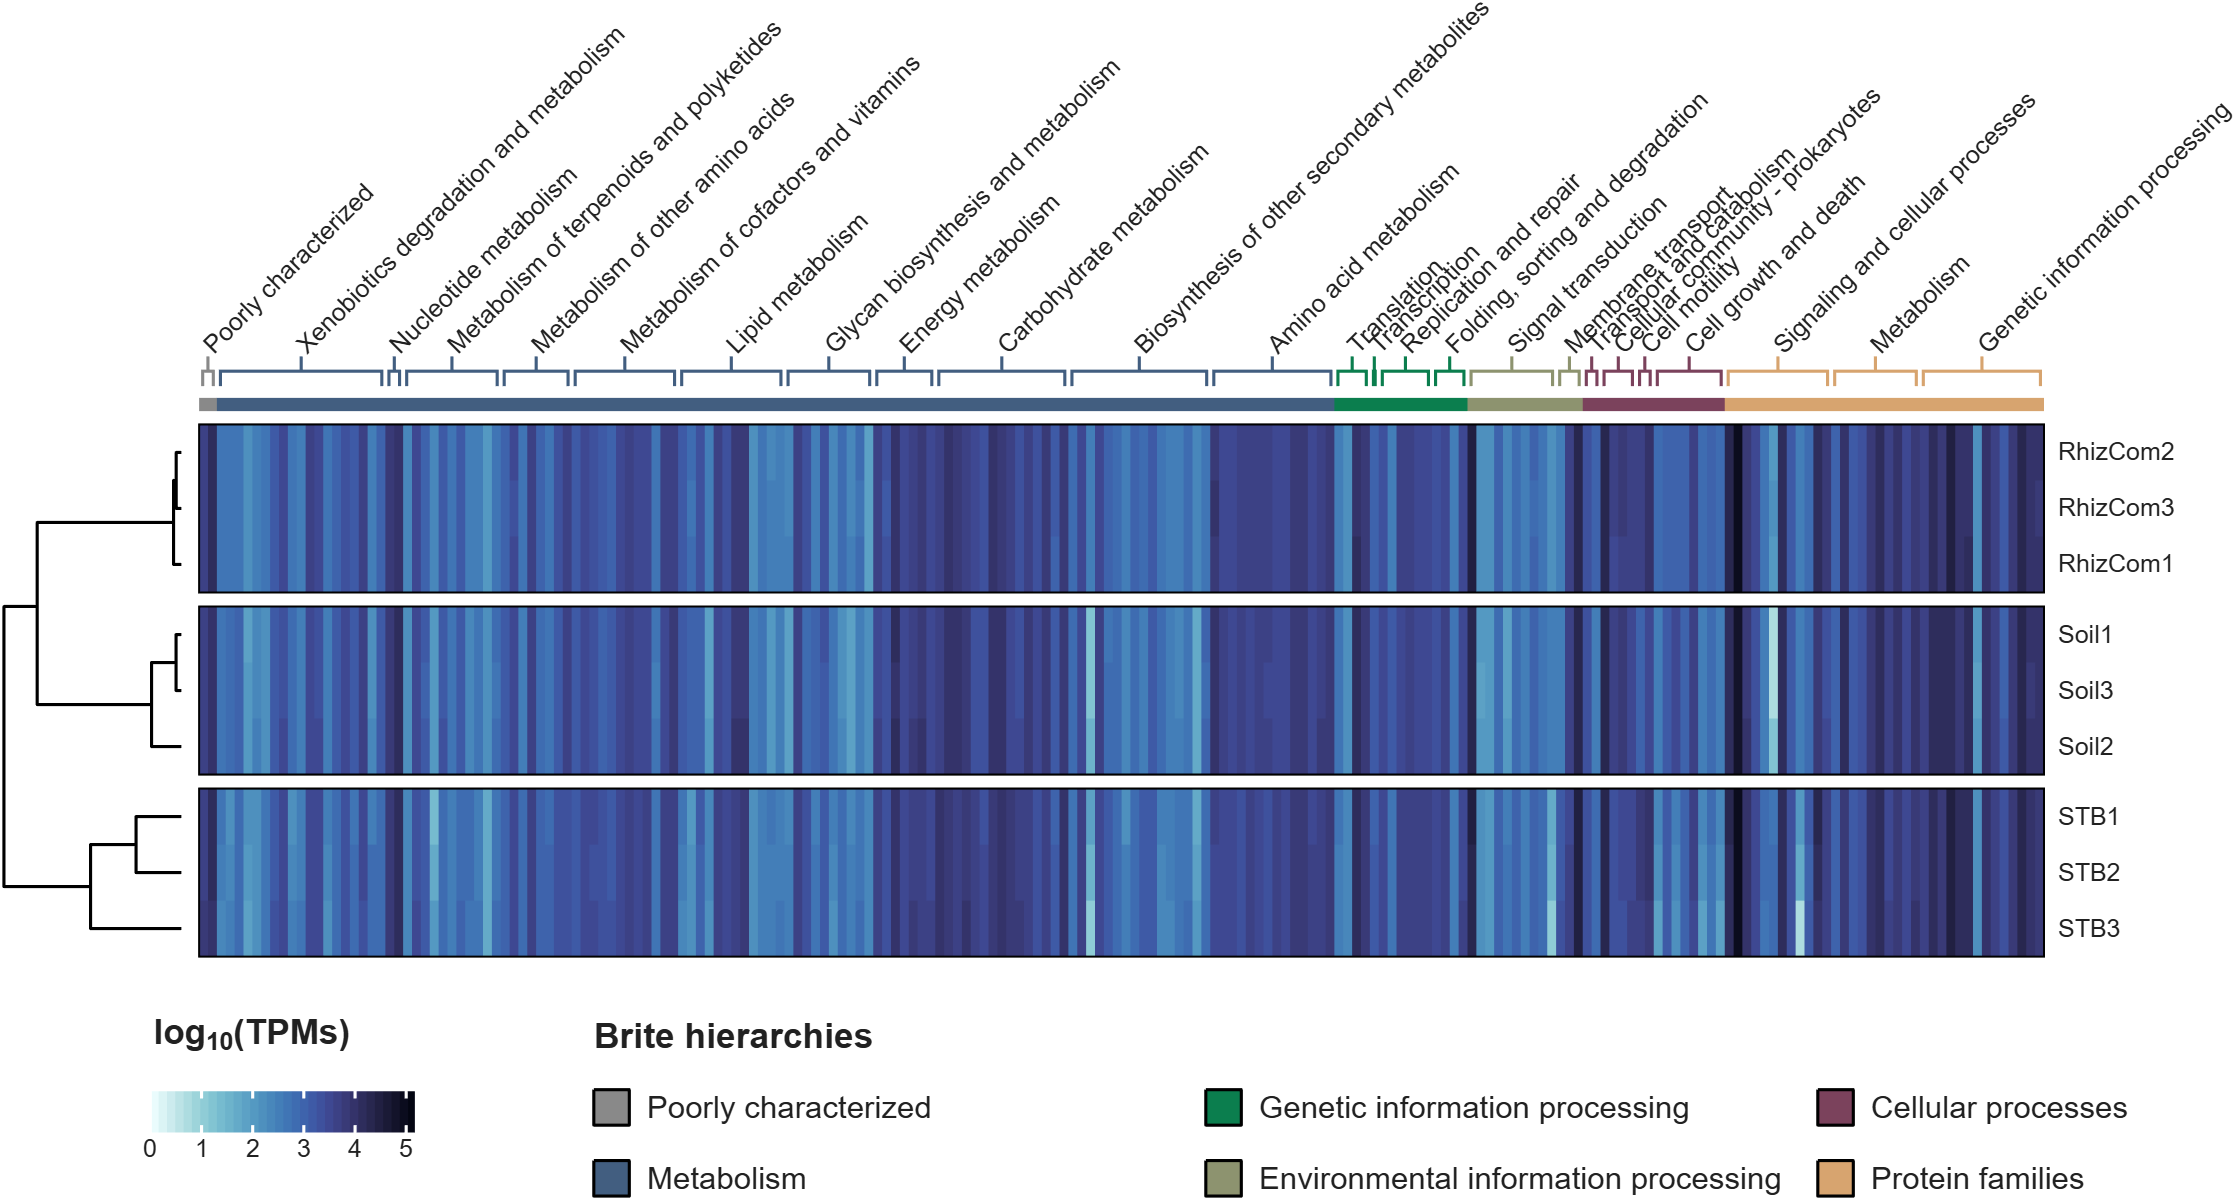
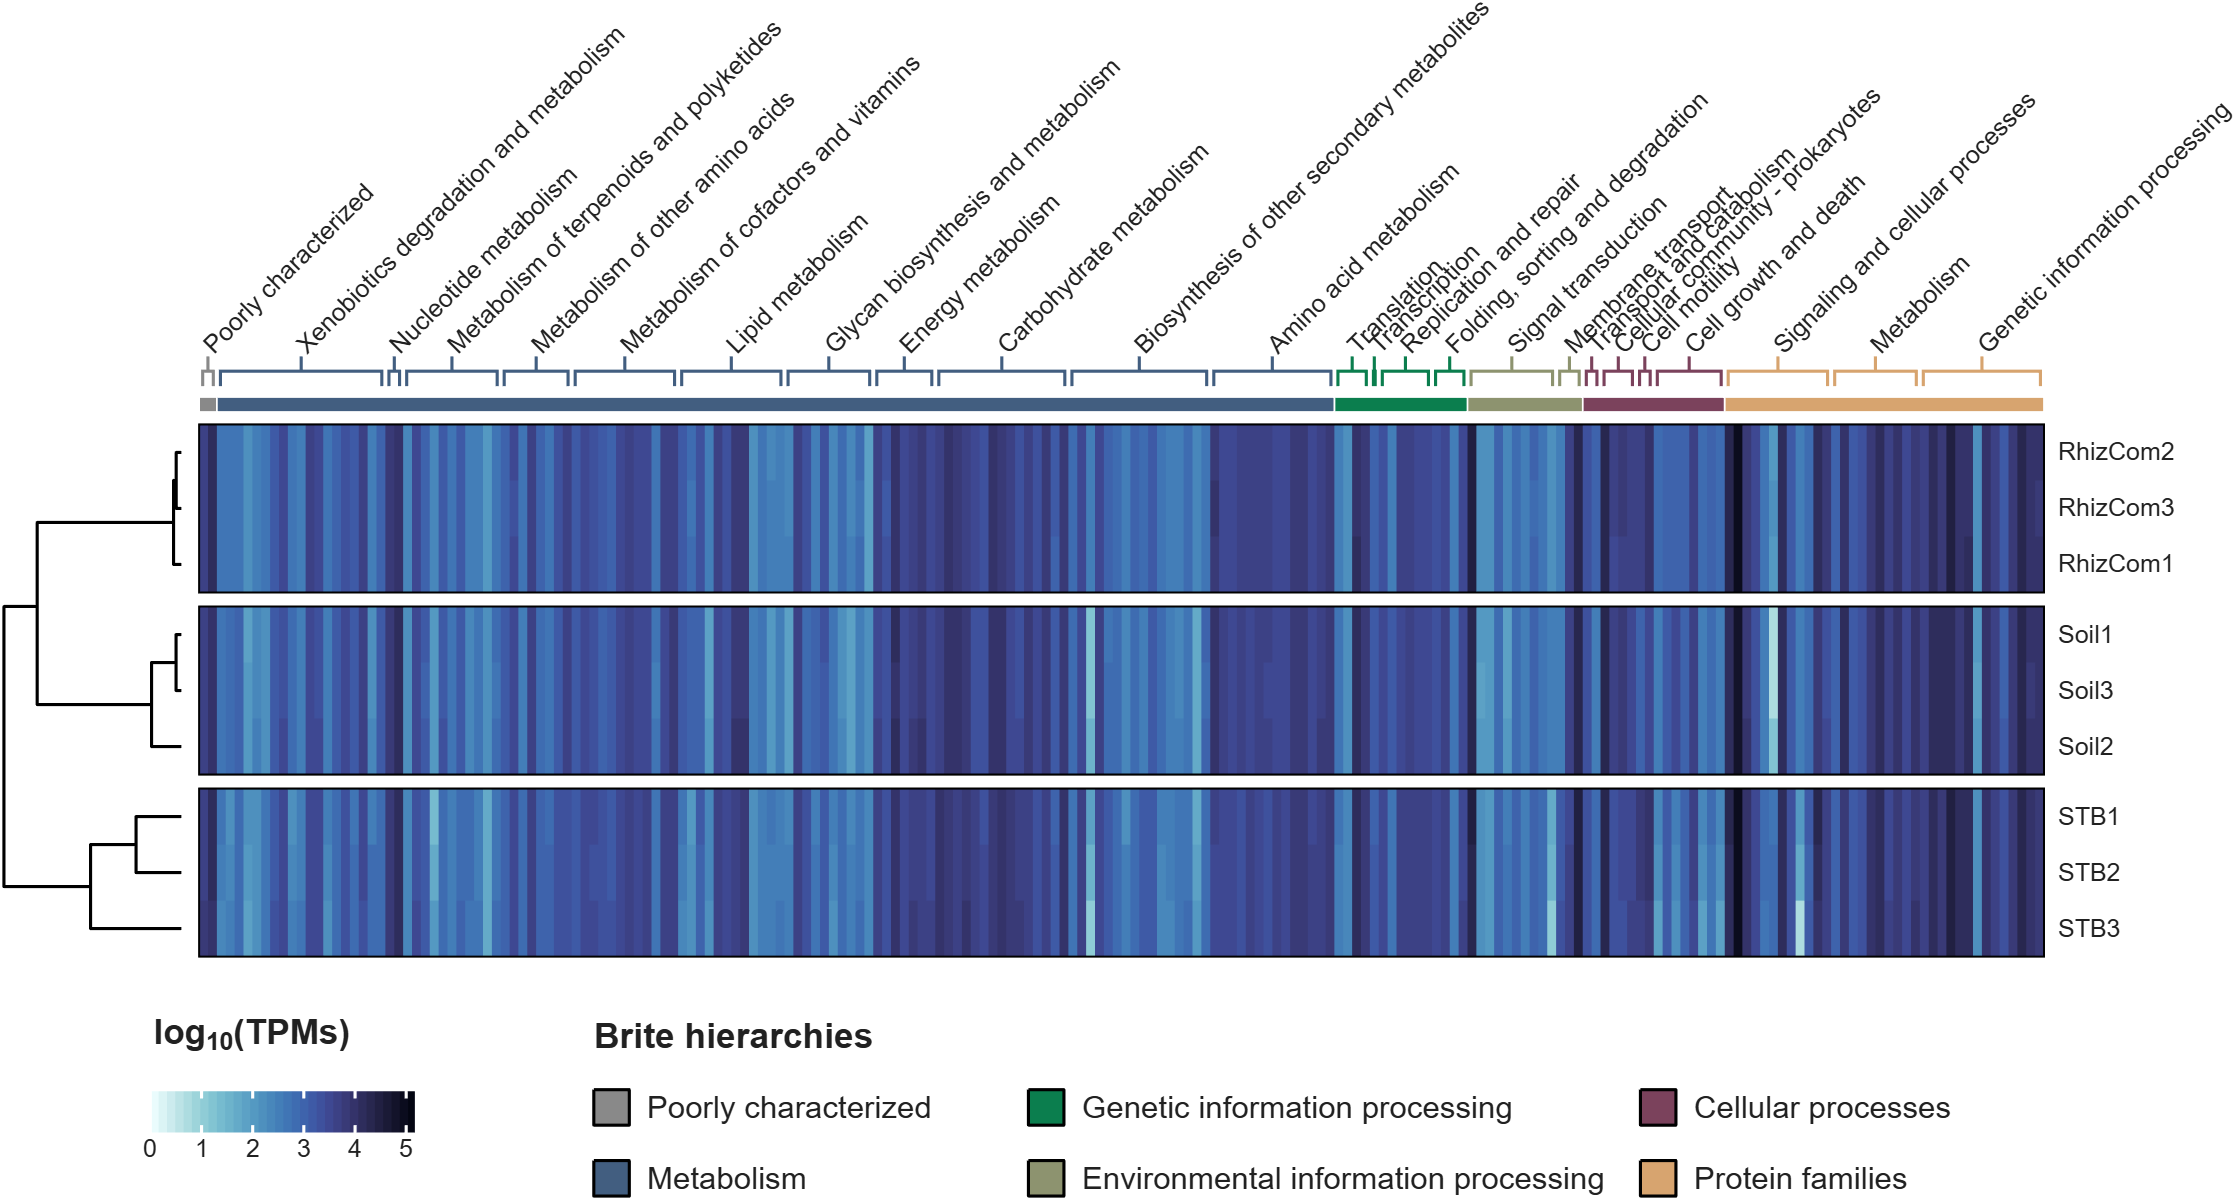
add & push by Matlab

Changed region(s): [[0.4322, 0.8942, 0.9262, 1.0]]

diff --git a/demos_SColorbar/demo_slgd3_7_Complex.m b/demos_SColorbar/demo_slgd3_7_Complex.m
@@ -1,0 +1,102 @@
+%% Complex heatmap 7
+% Inspired by : Fig. 3A
+%     Liang WW, Müller S, Hart SK, et al. 
+%     RETRACTED: Transcriptome-scale RNA-targeting CRISPR screens reveal essential lncRNAs in human cells 
+%     [retracted in: Cell. 2025 Dec 24;188(26):7629. doi: 10.1016/j.cell.2025.11.032.]. 
+%     Cell. 2024;187(26):7637-7654.e29. doi:10.1016/j.cell.2024.10.021
+%
+% Knockdown of shared essential lncRNAs reduces cell survival.
+
+addpath('..\')
+T = load('..\data_example\lncRNA.mat');
+
+fig = figure('Units','normalized', 'Position',[.05,.02,.5,.9]);
+ax = axes('Parent',fig, 'Position',[.05,.05,.9,.9]);
+
+% Draw left heatmap (绘制左侧热图)
+SHM_L = SHeatmap(T.DataL, 'ColGroup',T.colGroup, 'GroupSep',.25, 'TickLength',0);
+SHM_L.draw()
+SHM_L.setColName(T.colNameL)
+SHM_L.setColLabel('Rotation',90, 'FontSize',14)
+SHM_L.setXYTLim('XLim', [0, 12.5])
+SHM_L.setRowTickIndices([])
+SHM_L.setFontName('Arial')
+
+% Add colorbar (添加颜色条)
+colormap(slanCM(19, 32)); clim([0, 1])
+scbarL = SColorbar(ax, 'Location','south', 'TickDir','bothin', ...
+    'Tick',0:.5:1, 'TickLength',.1);
+scbarL.draw()
+scbarL.setXYTLim('XLim', [33, 48], 'YLim',[30, 31])
+scbarL.setTickLabel('FontName','Arial', 'FontSize',12, 'Rotation',0, ...
+    'HorizontalAlignment','center', 'VerticalAlignment','top')
+
+SHM_L.freezeColors()
+scbarL.freezeColors()
+
+% Draw left heatmap (绘制右侧热图)
+SHM_R = SHeatmap(T.DataR, 'ColGroup',T.colGroup, 'GroupSep',.25, 'TickLength',0);
+SHM_R.draw()
+SHM_R.setColName(T.colNameR)
+SHM_R.setRowName(T.rowName)
+SHM_R.setColLabel('Rotation',90, 'FontSize',14)
+SHM_R.setRowLabel('FontSize',14)
+SHM_R.setRowLabelLocation('right')
+SHM_R.setXYTLim('XLim', [18, 30.5])
+SHM_R.setFontName('Arial')
+SHM_R.setRowTickIndices([1:5, 16, 23])
+spreadLabels(SHM_R.rowLabelHdl, [36,1; 36,25], 'LeaderStyle','segment2', 'UniformWeight',.6)
+
+% Add colorbar (添加颜色条)
+tcmap = flipud(slanCM(4, 128));
+colormap(tcmap((1:64) + 15, :)); clim([0, 1])
+scbarR = SColorbar(ax, 'Location','south', 'TickDir','bothin', ...
+    'Tick',0:.5:1, 'TickLength',.1);
+scbarR.draw()
+scbarR.setXYTLim('XLim', [33, 48], 'YLim',[45, 46])
+scbarR.setTickLabel('FontName','Arial', 'FontSize',12, 'Rotation',0, ...
+    'HorizontalAlignment','center', 'VerticalAlignment','top')
+
+SHM_R.freezeColors()
+scbarR.freezeColors()
+
+% Draw group blocks 1
+[ind, ~, ~] = unique(T.rowGroup1, 'stable');
+CList1 = [206,62,82; 232,107,70; 236,169,90; 245,213,136; 220,234,146; 96,185,157; 41,129,186]./255;
+SCB1 = SClusterBlock(T.rowGroup1, 'Orientation','left', 'Parent',ax, ...
+    'Height',2, 'BasePos',-.5, 'BlockProp',{'LineWidth',.5, 'EdgeColor','none'}, 'ColorList',CList1(ind, :));
+SCB1.draw(); % SCB1.setBox('Color','w', 'LineWidth',.5)
+
+% Draw group blocks 2
+[ind, ~, ~] = unique(T.rowGroup2, 'stable');
+CList2 = [255,255,255; 3,103,45; 217,217,217]./255;
+SCB2 = SClusterBlock(T.rowGroup2, 'Orientation','right', 'Parent',ax, ...
+    'Height',2, 'BasePos',13, 'BlockProp',{'LineWidth',.5, 'EdgeColor','none'}, 'ColorList',CList2(ind, :));
+SCB2.draw(); % SCB2.setBox('Color','w', 'LineWidth',.5)
+
+
+% Add legend2 (添加图例2)
+[~, ~, ticks2] = intersect(1:max(T.rowGroup2), SCB2.ClassName, 'stable');
+slgd2 = SLegend(SCB2, 'BasePos',[33, 37], 'TitleString','Essentiality (CRISPRI)', ...
+    'IconSize',[1, 1], 'RowSep',1, 'LabelOffset',.25, 'Tick',ticks2(2:3), 'Label', T.rowGroupName2(2:3));
+slgd2.draw()
+slgd2.setLabel('FontName','Arial')
+slgd2.setTitle('FontName','Arial')
+
+% Add legend1 (添加图例1)
+[~, ~, ticks1] = intersect(1:max(T.rowGroup1), SCB1.ClassName, 'stable');
+slgd1 = SLegend(SCB1, 'BasePos',[33, 52], 'TitleString','Genomic class', ...
+    'IconSize',[1, 1], 'RowSep',1, 'LabelOffset',.25, 'Tick',ticks1, 'Label', T.rowGroupName1);
+slgd1.draw()
+slgd1.setLabel('FontName','Arial')
+slgd1.setTitle('FontName','Arial')
+
+
+
+% Create annotations 
+text(ax, 33, 28.5, 'Essentiality rank (Cas13)', 'FontName','Arial', 'FontSize',17)
+text(ax, 33, 43.5, 'Expression (log_2 TPM+1)', 'FontName','Arial', 'FontSize',17)
+plot(ax, [0, 15], [0,0], 'Color','k', 'LineWidth',2)
+plot(ax, [18, 30.5], [0,0], 'Color','k', 'LineWidth',2)
+text(ax, 7.5, -1.5, 'Essentiality', 'FontName','Arial', 'FontSize',17, 'HorizontalAlignment','center')
+text(ax, 24.25, -1.5, 'Expression', 'FontName','Arial', 'FontSize',17, 'HorizontalAlignment','center')

diff --git a/demos_SColorbar/demo_slgd3_6_Complex.m b/demos_SColorbar/demo_slgd3_6_Complex.m
@@ -22,14 +22,12 @@ SDL.setXYTLim('YLim',[0,60])
 set(SDL.treeHdl, 'LineWidth',1.5)
 
 % Draw group blocks 1
-SCB1 = SClusterBlock(T.colGroup1, 'Orientation','top', 'Parent',ax, ...
+SCB1 = SClusterBlock(T.colGroup0, 'Orientation','top', 'Parent',ax, ...
     'BlockInset',.4, 'Height',3, 'BasePos',-4.5, 'Format','tailbrack', ...
-    'BlockProp',{'LineWidth',1.5});
+    'BlockProp',{'LineWidth',1.5}, 'EdgeColorMatchFace','on', ...
+    'Group',T.colGroup1, 'GroupSep',0, 'ColorList',CList);
 [X, Y] = SCB1.draw();
 text(ax, X, Y - 2.5, T.colGroupNames1, 'FontName','Arial', 'FontSize',12, 'Rotation',45)
-[~, ind, ~] = unique(T.colGroup1, 'stable');
-set(SCB1.blockHdl, {'EdgeColor'}, num2cell(CList(T.colGroup0(ind), :), 2))
-% Draw group blocks 0
 SCB0 = SClusterBlock(T.colGroup0, 'Orientation','top', 'Parent',ax, ...
     'Height',1.5, 'BasePos',-1.5, 'BlockProp',{'EdgeColor','none'}, 'ColorList',CList, 'BlockInset',.1);
 SCB0.draw();
@@ -56,8 +54,8 @@ text(ax, -5, 69, 'log_{10}(TPMs)', 'FontName','Arial', 'FontWeight','bold', 'Fon
 
 
 % Add legend (添加图例)
-slgd = SLegend(SCB0, 'BasePos',[45, 75], 'RowSep',2, 'TitleString','Brite hierarchies', ...
-    'ColNum',3, 'ColSep',65, 'IconSize',[4,4], 'RowSep',4, 'LabelOffset',2, 'Label',T.colGroupNames0);
+slgd = SLegend(SCB0, 'BasePos',[45, 75], 'TitleString','Brite hierarchies', ...
+    'ColNum',3, 'ColSep',[45, 65], 'IconSize',[4,4], 'RowSep',4, 'LabelOffset',2, 'Label',T.colGroupNames0);
 slgd.draw()
 slgd.setBox('LineWidth',1.5)
 slgd.setLabel('FontName','Arial')

diff --git a/SLegend.m b/SLegend.m
@@ -119,7 +119,7 @@ classdef SLegend < handle
             obj.ColSep = abs(obj.ColSep);
 
             obj.TickLength(obj.TickLength < 0) = 0;
-            obj.TickLength(obj.TickLength > obj.ColSep/2) = obj.ColSep/2;
+            obj.TickLength(obj.TickLength > obj.ColSep(1)/2) = obj.ColSep(1)/2;
             obj.LabelOffset(obj.LabelOffset <= 1e-4) = 1e-4;
             % obj.LabelOffset(obj.LabelOffset > .5) = .5;
 
@@ -162,9 +162,14 @@ classdef SLegend < handle
             [obj.RP, obj.CP] = find(~isnan(obj.iconMat));
             
             obj.RP = (obj.RP - 1).*(obj.RowSep + obj.IconSize(2)) + obj.IconSize(2)./2;
-            obj.CP = (obj.CP - 1).*(obj.ColSep + obj.IconSize(1)) + obj.IconSize(1)./2;
+            if length(obj.ColSep) > 1
+                tCS = cumsum([0, obj.ColSep(:).' + obj.IconSize(1)]); tCS = tCS(:);
+                obj.CP = tCS(min(obj.CP, length(tCS))) + obj.IconSize(1)./2;
+            else
+                obj.CP = (obj.CP - 1).*(obj.ColSep + obj.IconSize(1)) + obj.IconSize(1)./2;
+            end
             obj.RP = obj.RP(:).'; obj.CP = obj.CP(:).';
-            tXLim = [min(obj.CP) - obj.IconSize(1)./2, max(obj.CP) + obj.IconSize(1)./2 + obj.ColSep];
+            tXLim = [min(obj.CP) - obj.IconSize(1)./2, max(obj.CP) + obj.IconSize(1)./2 + obj.ColSep(end)];
             tYLim = [min(obj.RP) - obj.IconSize(2)./2, max(obj.RP) + obj.IconSize(2)./2];
 
             thdl = findobj(gca, 'Type', 'text');

diff --git a/SClusterBlock.m b/SClusterBlock.m
@@ -53,7 +53,8 @@ classdef SClusterBlock < handle
         ax
         Parent
         arginList = {'Orientation', 'BasePos', 'Parent', 'ColorList', ...
-            'BlockProp', 'Height', 'Group', 'GroupSep','Format','BlockInset'};
+            'BlockProp', 'Height', 'Group', 'GroupSep','Format','BlockInset', ...
+            'EdgeColorMatchFace'};
 
         Orientation = 'top';              % 'top'/'left' (方块位置/方向)               
         BasePos     = 0;                  % Base position for block placement (方块放置的基准位置)
@@ -64,6 +65,7 @@ classdef SClusterBlock < handle
             0.98, 0.50, 0.45; 0.50, 0.69, 0.83; 0.99, 0.71, 0.38;
             0.70, 0.87, 0.41; 0.99, 0.80, 0.90; 0.85, 0.85, 0.85;
             0.74, 0.50, 0.74; 0.80, 0.92, 0.77; 1.00, 0.93, 0.44];
+        EdgeColorMatchFace = 'off'
         Class
         ClassId
         ClassName
@@ -284,6 +286,9 @@ classdef SClusterBlock < handle
                         tX2 = [obj.BasePos; obj.BasePos; nan; obj.BasePos + obj.Height; obj.BasePos + obj.Height; nan]*ones(1, length(CFL));
                         obj.BoxX = [obj.BoxX, tX1(:).', tX2(:).'];
                         obj.BoxY = [obj.BoxY, tY1(:).', tY2(:).'];
+                end
+                if strcmpi(obj.EdgeColorMatchFace, 'on')
+                    obj.blockHdl(i).EdgeColor = obj.blockHdl(i).FaceColor;
                 end
             end
 

diff --git a/spreadLabels.m b/spreadLabels.m
@@ -87,8 +87,8 @@ function varargout = spreadLabels(txtHdls, endPoints, varargin)
             XX = [SPos(:, 1).'; TPos(:, 1).'; nan(1, N)];
             YY = [SPos(:, 2).'; TPos(:, 2).'; nan(1, N)];
         case 'segment2'
-            XX = [SPos(:, 1).'; SPos(:, 1).' + LDir(:,1).'./2; TPos(:, 1).'; nan(1, N)];
-            YY = [SPos(:, 2).'; SPos(:, 2).' + LDir(:,2).'./2; TPos(:, 2).'; nan(1, N)];
+            XX = [SPos(:, 1).'; SPos(:, 1).' + LDir(:,1).'./3; TPos(:, 1).'; nan(1, N)];
+            YY = [SPos(:, 2).'; SPos(:, 2).' + LDir(:,2).'./3; TPos(:, 2).'; nan(1, N)];
         case 'segment3'
             XX = [SPos(:, 1).'; SPos(:, 1).' + LDir(:,1).'./3; TPos(:, 1).' - LDir(:,1).'./3; TPos(:, 1).'; nan(1, N)];
             YY = [SPos(:, 2).'; SPos(:, 2).' + LDir(:,2).'./3; TPos(:, 2).' - LDir(:,2).'./3; TPos(:, 2).'; nan(1, N)];
